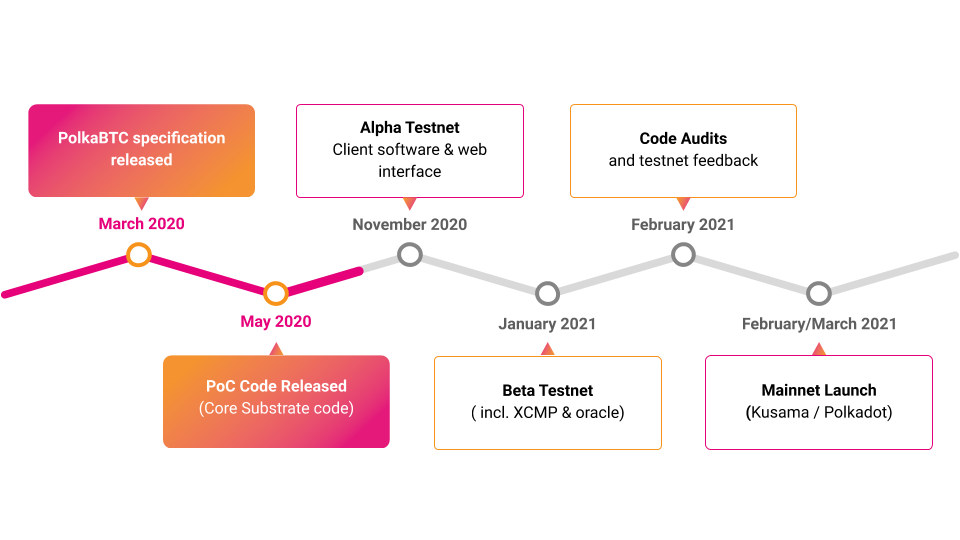
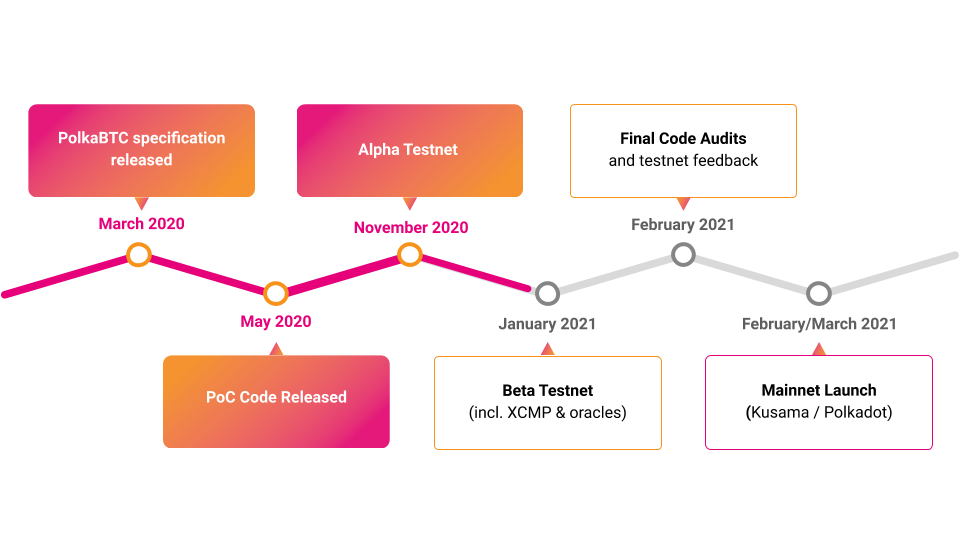
feat: added more details on relayer docs. Added roadmap. Added overview.

diff --git a/docs/start/overview.md b/docs/start/overview.md
@@ -1,3 +1,140 @@
 # Overview
 
-PolkaBTC documentation for users, vaults, relayers, developers and anyone else.
+In 2016, the [Polkadot whitepaper](https://polkadot.network/PolkaDotPaper.pdf) identified secure interoperability with Bitcoin as a critical and also challenging feature. In January 2020, with the launch of Polkadot on the horizon, the [Web3 Foundation](https://web3.foundation/in) commissioned [Interlay](https://www.interlay.io/) to design a trustless bridge from Bitcoin to Polkadot based on [XCLAIM](https://www.xclaim.io/) — a carefully designed, open and trustless system that guarantees the security of user’s funds.
+
+
+The BTC-Parachain allows users to mint 1:1 Bitcoin-backed assets onto Polkadot - PolkaBTC - and use these across a wide range of applications, including decentralized exchanges, stablecoins, and lending protocols.
+
+Funded by a [Web3 Foundation grant](https://web3.foundation/grants/), the BTC-Parachain is implemented in [Rust](https://www.rust-lang.org/) using [Parity](https://www.parity.io/)'s [Substrate framework](https://substrate.dev/).
+
+### Helpful Links
+
+- [Polkadot's blog post explaining PolkaBTC](https://polkadot.network/bitcoin-is-coming-to-polkadot/)
+
+- [BTC Parachain specification](https://interlay.gitlab.io/polkabtc-spec/)
+
+- [BTC Parachain open-source code](https://github.com/interlay/BTC-Parachain)
+
+- [XCLAIM peer-reviewed paper](https://eprint.iacr.org/2018/643.pdf)
+
+- [Interlay homepage](https://www.interlay.io/)
+
+
+## Security Guarantees: Trustless and Fully Decentralized
+
+What makes the BTC-Parachain unique is the strict dedication to being trustless and decentralized:
+
+- **Trustless**. The bridge has no central authority. Right from the start, the BTC-Parachain will be run by a decentralized network of individuals, community members, and companies.
+- **Decentralized**. In the spirit of permissionless systems like Bitcoin, anyone can participate in operating the bridge: contrary to other approaches, you do not need permission or any additional token to become a maintainer and start earning fees.
+
+
+As a holder of PolkaBTC, you have the following guarantee:
+
+?> You can always redeem PolkaBTC for BTC, or be reimbursed in the collateral currency at a beneficial rate.
+
+In the case that a vault misbehaves, you will be reimbursed from the Vault’s collateral and will make a very profitable trade between BTC and DOT. At launch, collateral will be put down in DOT. In the mid/long run, this may be extended to stablecoins or token-sets to improve stability.
+
+Summarizing, to trust the bridge, you only need to:
+
+-  Trust that Bitcoin is secure. Meaning: trust that Bitcoin blocks are final after X confirmations. The bridge will recommend a minimum of 6 confirmations, though users and apps are encouraged to set higher thresholds.
+- Trust that Polkadot is secure. This assumption is made by all applications running on top of Polkadot.
+
+
+## Design: The XCLAIM Framework
+
+
+### Cryptocurrency-Backed Assets.
+
+At the core, XCLAIM - the framework underlying the BTC-Parachain - introduces the concept of cryptocurrency-back assets. Assets are locked on Bitcoin and unlocked on Polkadot in form of 1:1 BTC backed-assets (PolkaBTC). PolkaBTC can be used just like any native asset within the Polkadot ecosystem, meaning: they can be easily transferred and integrated into other Parachains and applications.
+
+![](https://cdn-images-1.medium.com/max/3200/0*7K1rmj7j0Cya0eB_)
+
+### Issue, Trade, Redeem
+
+[XCLAIM](https://xclaim.io) consists of three main protocols, which also resemble the life-cycle of PolkaBTC:
+
+* **Issue**: Users create PolkaBTC on the BTC-Parachain by locking BTC with Vaults — non-trusted and collateralized intermediaries on Bitcoin (see below).
+
+* **Transfer**: Users transfer PolkaBTC to other users or migrate to other Parachains within the Polkadot ecosystem, integrating with stablecoins, decentralized exchanges, lending protocols etc.
+
+* **Redeem**: Users burn PolkaBTC on the BTC-Parachain to receive the *equivalent* amount of BTC from Vaults on Bitcoin.
+
+PolkaBTC can remain on Polkadot indefinitely (no expiry date) and can be redeemed at any point in time. Users who obtain PolkaBTC on Polkadot do not need a BTC wallet, until they decide to redeem the tokens for BTC (if at all).
+
+### Secure, Open, Efficient.
+
+XCLAIM guarantees users can redeem PolkaBTC tokens for the corresponding amount of BTC or be reimbursed in the DOT at any point in time. To summarize, XCLAIM is:
+
+* **Financially Secure**: intermediaries pledge collateral and cryptographically prove correct behavior. Any attempt of theft is automatically punished, while users are reimbursed.
+
+* **Dynamic and Permissionless**: any user can become their own intermediary — simply, anytime, and without asking for permission. No need to rely on someone else, or any special hardware.
+
+* **Censorship Resistant**: By design, Vaults have no influence over the Issue process. That is, no Vault can prevent a user from minting or obtaining PolkaBTC.
+
+* **Fast and Efficient**: XCLAIM is on average 95% faster than using classic HTLC atomic swaps with Bitcoin.
+
+
+### Participating in the BTC Parachain
+
+XCLAIM’s design has an emphasis on being open and permissionless. As such, any user can take up multiple roles at the same — but also leave the system whenever they wish. As such, to participate in the BTC Parachain, you can choose from:
+
+**Users:** there are two types of user on the BTC Parachain:
+
+* **Liquidity Providers** lock BTC with Vaults to mint 1:1 backed *PolkaBTC* on the Parachain. Requirement: (1) Bitcoin wallet and (2) Polkadot wallet.
+
+* **End-Users** obtain PolkaBTC from liquidity providers on Polkadot and use PolkaBTC for payments and with applications. Requirements: Polkadot wallet
+
+Both can redeem owned PolkaBTC for BTC at any time (requires BTC wallet).
+
+**Vaults:** collateralized intermediaries who hold BTC locked on Bitcoin. Any user can become a Vault by simply locking DOT collateral. The only requirements are (1) a Bitcoin wallet, (2) a Polkadot wallet and (3) some DOTs.
+
+**Staked Relayers **make sure the BTC Parachain is up to date with the state of Bitcoin by submitting block headers to BTC-Relay, the [Parachain’s Bitcoin SPV client](https://medium.com/interlay/interlay-releases-codebase-for-btc-relay-on-polkadot-b37502ce88e3). Staked Relayers also flag (potentially) invalid blocks. Requirements: (1) Bitcoin full node, (2) Polkadot wallet, (3) some DOTs.
+
+**Parachain Validators** participate in the BTC Parachain’s DPoS consensus, as per Polkadot consensus rules. Requirement: (1) Parachain full node and (2) DOTs.
+
+### BTC Parachain Components
+
+All roles are coordinated through the **Parachain Execution Environment**, which encodes the functionality to issue, transfer and redeem PolkaBTC, and enforce correct behavior of Vaults. Thereby, the Parachain implements a multi-stage collateralization scheme, to protect against exchange rate fluctuations. The Parachain also verifies the correct execution of payments on Bitcoin via BTC-Relay, a Substrate Bitcoin SPV client. To transfer PolkaBTC to other Parachains, an integration with Polkadot’s Cross-Chain Message Passing (XCMP) will be provided.
+
+![The BTC-Parachain is Polkadot’s trustless gateway for Bitcoin.](https://cdn-images-1.medium.com/max/3200/0*v1lfJ1ZK75luh16s)*The BTC-Parachain is Polkadot’s trustless gateway for Bitcoin.*
+
+<div id="step-by-step"></div>
+
+## From BTC to PolkaBTC, Step by Step.
+
+XCLAIM exhibits two core protocols, Issue and Redeem, outlined below.
+
+### Issue/Mint PolkaBTC
+ A user (liquidity provider) mints new PolkaBTC.
+
+1. A user registers an *issue request *with a collateralized Vault of his choosing. This reserves the Vault’s DOT collateral (to prevent race conditions).
+
+1. The user then sends BTC to the Vault,
+
+1. And submits a transaction inclusion proof to the BTC-Relay.
+
+1. The BTC-Relay verifies the Bitcoin transaction.
+
+1. The user is allocated the equivalent amount of newly minted PolkaBTC
+
+![High-level PolkaBTC Issue process](https://cdn-images-1.medium.com/max/3200/0*3OIDfIffZskXZmi7)*High-level PolkaBTC Issue process*
+
+### Redeem PolkaBTC for BTC
+ A user redeems PolkaBTC for the equivalent amount of BTC or receives DOT as reimbursement.
+
+1. To request a redeem, a user locks PolkaBTC with the BTC Parachain.
+
+1. The Parachain instructs a Vault to execute the redeem.
+
+1. The Vault releases the correct amount of BTC to the user.
+
+1. To unlock the DOT collateral, the Vault submits a transaction inclusion proof to BTC-Relay.
+
+1. If the proof is correct, the Parachain releases the Vault’s DOTs.
+
+1. If no valid proof is provided on time, the Parachain slashes the Vault’s DOTs and reimburses the user at a beneficial exchange rate.
+
+In practice, a less strict approach will be taken, where Vaults remain unpunished for being offline (not stealing!) as long as they maintain an overall satisfactory SLA.
+
+![High-level PolkaBTC Redeem process](https://cdn-images-1.medium.com/max/3200/0*GeYgUaeduwBxfgfN)*High-level PolkaBTC Redeem process*
+

diff --git a/docs/README.md b/docs/README.md
@@ -21,29 +21,31 @@ PolkaBTC can remain on Polkadot indefinitely (no expiry date) and can be redeeme
 
 XCLAIM guarantees users can redeem PolkaBTC tokens for the corresponding amount of BTC or be reimbursed in the DOT at any point in time. To summarize, XCLAIM is:
 
-- **Financially Secure:** intermediaries pledge collateral and cryptographically prove correct behavior. Any attempt of theft is automatically punished, while users are reimbursed.
-- **Dynamic and Permissionless:** any user can become their own intermediary — simply, anytime, and without asking for permission. No need to rely on someone else, or any special hardware.
+- **Financially Secure:** Vaults (intermediaries) pledge collateral and cryptographically prove correct behavior. Any attempt of theft is automatically punished and users are reimbursed.
+
+- **Dynamic and Permissionless:** any user can become a Vault — simply, anytime, and without asking for permission. No need to rely on someone else, or any special hardware. You can even run your own Vault for issuing PolkaBTC.
 
 - **Censorship Resistant:** By design, Vaults have no influence over the Issue process. That is, no Vault can prevent a user from minting or obtaining PolkaBTC.
+
 - **Fast and Efficient:** XCLAIM is on average 95% faster than using classic HTLC atomic swaps with Bitcoin.
 
 ## Guides
 
 <!-- TODO: needs proper styling similar to https://compound.finance/docs -->
 
-[1. Get a thorough overview of PolkaBTC](start/overview.md)
+### [1. Get a thorough overview of PolkaBTC](start/overview.md)
 
-[2. Issue your first PolkaBTC](start/issue.md)
+### [2. Issue your first PolkaBTC](start/issue.md)
 
-[3. Redeem PolkaBTC for BTC](start/redeem.md)
+### [3. Redeem PolkaBTC for BTC](start/redeem.md)
 
-[4. Understand how a Vault works](vault/overview.md)
+### [4. Understand how a Vault works](vault/overview.md)
 
-[5. Operate your own Vault](vault/guide.md)
+### [5. Operate your own Vault](vault/guide.md)
 
-[6. Understand how a Relayer works](relayer/overview.md)
+### [6. Understand how a Relayer works](relayer/overview.md)
 
-[7. Operate your own Relayer](relayer/guide.md)
+### [7. Operate your own Relayer](relayer/guide.md)
 
-[8. Build your own Dapps with PolkaBTC](developers/integration.md)
+### [8. Build your own Dapps with PolkaBTC](developers/integration.md)
 

diff --git a/docs/about/roadmap.md b/docs/about/roadmap.md
@@ -1,2 +1,17 @@
 # Roadmap
 
+The Interlay team is building a customized Substrate environment for PolkaBTC, optimized to verify Bitcoin payments. The BTC Parachain includes a Bitcoin cross-chain SPV client (BTC-Relay), integrations with secure price oracles and XCMP, as well as support for hardware wallets. In addition, Interlay is also building client software for Vaults, Staked Relayers (who make sure BTC-Relay is up to date), as well as an easy-to-use web interface.
+
+[Interlay](https://interlay.io/) has previously released a [detailed technical specification](https://interlay.gitlab.io/polkabtc-spec/) and a [working PoC implementation](https://github.com/interlay/BTC-Parachain). After the successful pilot project, Interlay is now expediting efforts to complete the BTC Parachain in Q1 2021 - funded by a follow-up [Web3 Foundation grant](https://web3.foundation/grants/). A first Alpha testnet is scheduled for November 2020, a feature-ready Beta in January 2021. Sign up [here](https://forms.gle/7s1yGG3xEKyLhYnV7) to get early-access and test PolkaBTC in action. 
+
+
+A first Alpha was successfully launched in November 2020 and has been operating at alpha.polkabtc.io since. 
+
+A feature-ready Beta testnet will be launched in mid February 2021. 
+
+Once the audit of the code base is completed in February 2021 and parachains are enabled on Polkadot and Kusama, the BTC Parachain will go live: first on Kusama, then on Polkadot mainnet.
+
+
+![PolkaBTC Roadmap](../_assets/img/PolkaBTC_roadmap.png)
+
+

diff --git a/docs/relayer/overview.md b/docs/relayer/overview.md
@@ -14,7 +14,7 @@ Note: BTC-Relay is self healing and automatically detects and recovers from Bitc
 
 ### Why would I want to become a Relayer?
 
-?> Todo
+- **Yield farming:** Relayers earn fees in PolkaBTC and receive a subsidy in DOT. As such, Relayers earn yield on their staked DOT and have **exposure to both DOT and (Polka)BTC**.  
 
 ### What do I need to become a Relayer?
 
@@ -52,7 +52,7 @@ To this end, Relayers will receive a subsidy from the Polkadot Treasury.
 
 The exact size of the subsidy is to be determined by the Polkadot Council when parachains launch.
 
-## Collateral
+## Stake
 
 To ensure Relayers have no incentive to submit invalid Bitcoin block headers to BTC-Relay or make incorrect status updates, Relayers provide stake in DOT to the PolkaBTC bridge.
 
@@ -67,7 +67,8 @@ There are 2 types of failures:
 - **Incorrect Vote on Invalid Bitcoin Block**
 
 Currently, slashing of Relayers is executed via an out-of-band Governance vote and sudo call. 
-In the future, automated stake slashing based on Relayer majority vote will be implemented. 
+
+?> In the future, automated stake slashing based on Relayer majority vote will be implemented. 
 
 ## Service Level Agreements
 

diff --git a/docs/vault/overview.md b/docs/vault/overview.md
@@ -16,10 +16,8 @@ The correct behavior of Vaults is enforced by the PolkaBTC bridge parachain. Spe
 
 ### Why would I want to become a Vault?
 
-?> _TODO_ Flesh this out.
-
-1. **Yield farming:** Vaults earn fees for providing their services. They will get approximately X% APY.
-2. **Self-custody:** Vaults hold BTC of users in custody. If you do not want to give up custody of your BTC, you can be your own vault.
+1. **Yield farming:** Vaults earn fees in PolkaBTC and receive a subsidy in DOT. As such, Vaults earn yield on their DOT collateral and have **exposure to both DOT and (Polka)BTC**.  
+2. **Self-custody:** Vaults hold BTC of users in custody. If you are a large liquidity provider, you can be your own vault and retain custody over your BTC holdings until you sell PolkaBTC.
 
 ### What do I need to become a Vault?
 

diff --git a/docs/start/faq.md b/docs/start/faq.md
@@ -34,7 +34,7 @@ PolkaBTC guarantees that users (1) can redeem PolkaBTC for BTC, or (2) are reimb
 <details open>
 <summary><b>Has PolkaBTC been audited?</b></summary>
 
-PolkaBTC will undergo an audit before launch.
+PolkaBTC is being audited by [NCC](https://www.nccgroup.com/), a top-tier security and cryptography auditor. 
 </details>
 
 <details open>
@@ -45,4 +45,4 @@ PolkaBTC is based on XCLAIM - a top-tier, peer-reviewed research paper. PolkaBTC
 
 ## More questions?
 
-Reach out do us on [Discord](https://discord.gg/FUbExrmv) or [open an issue](https://github.com/interlay/polkabtc-docs/issues).
+Reach out on [Discord](https://discord.gg/FUbExrmv) or [open an issue](https://github.com/interlay/polkabtc-docs/issues).
